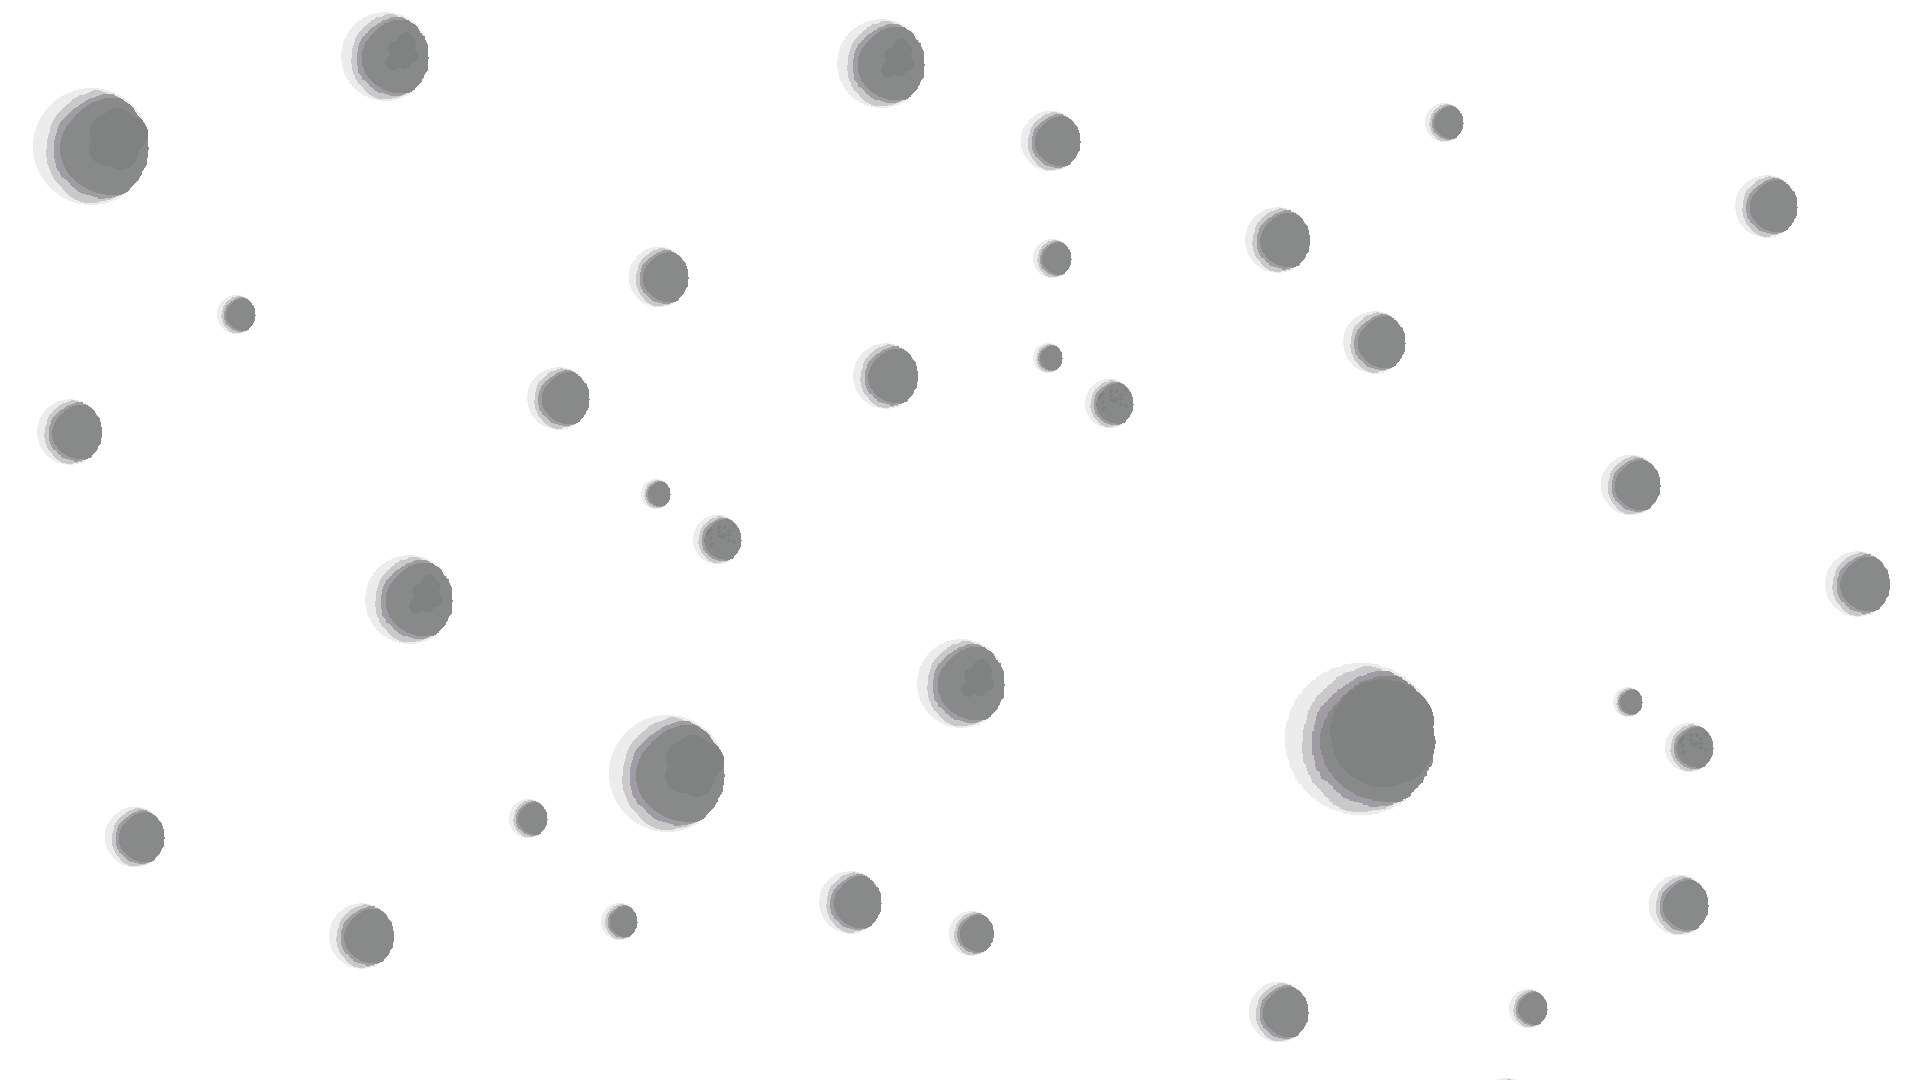
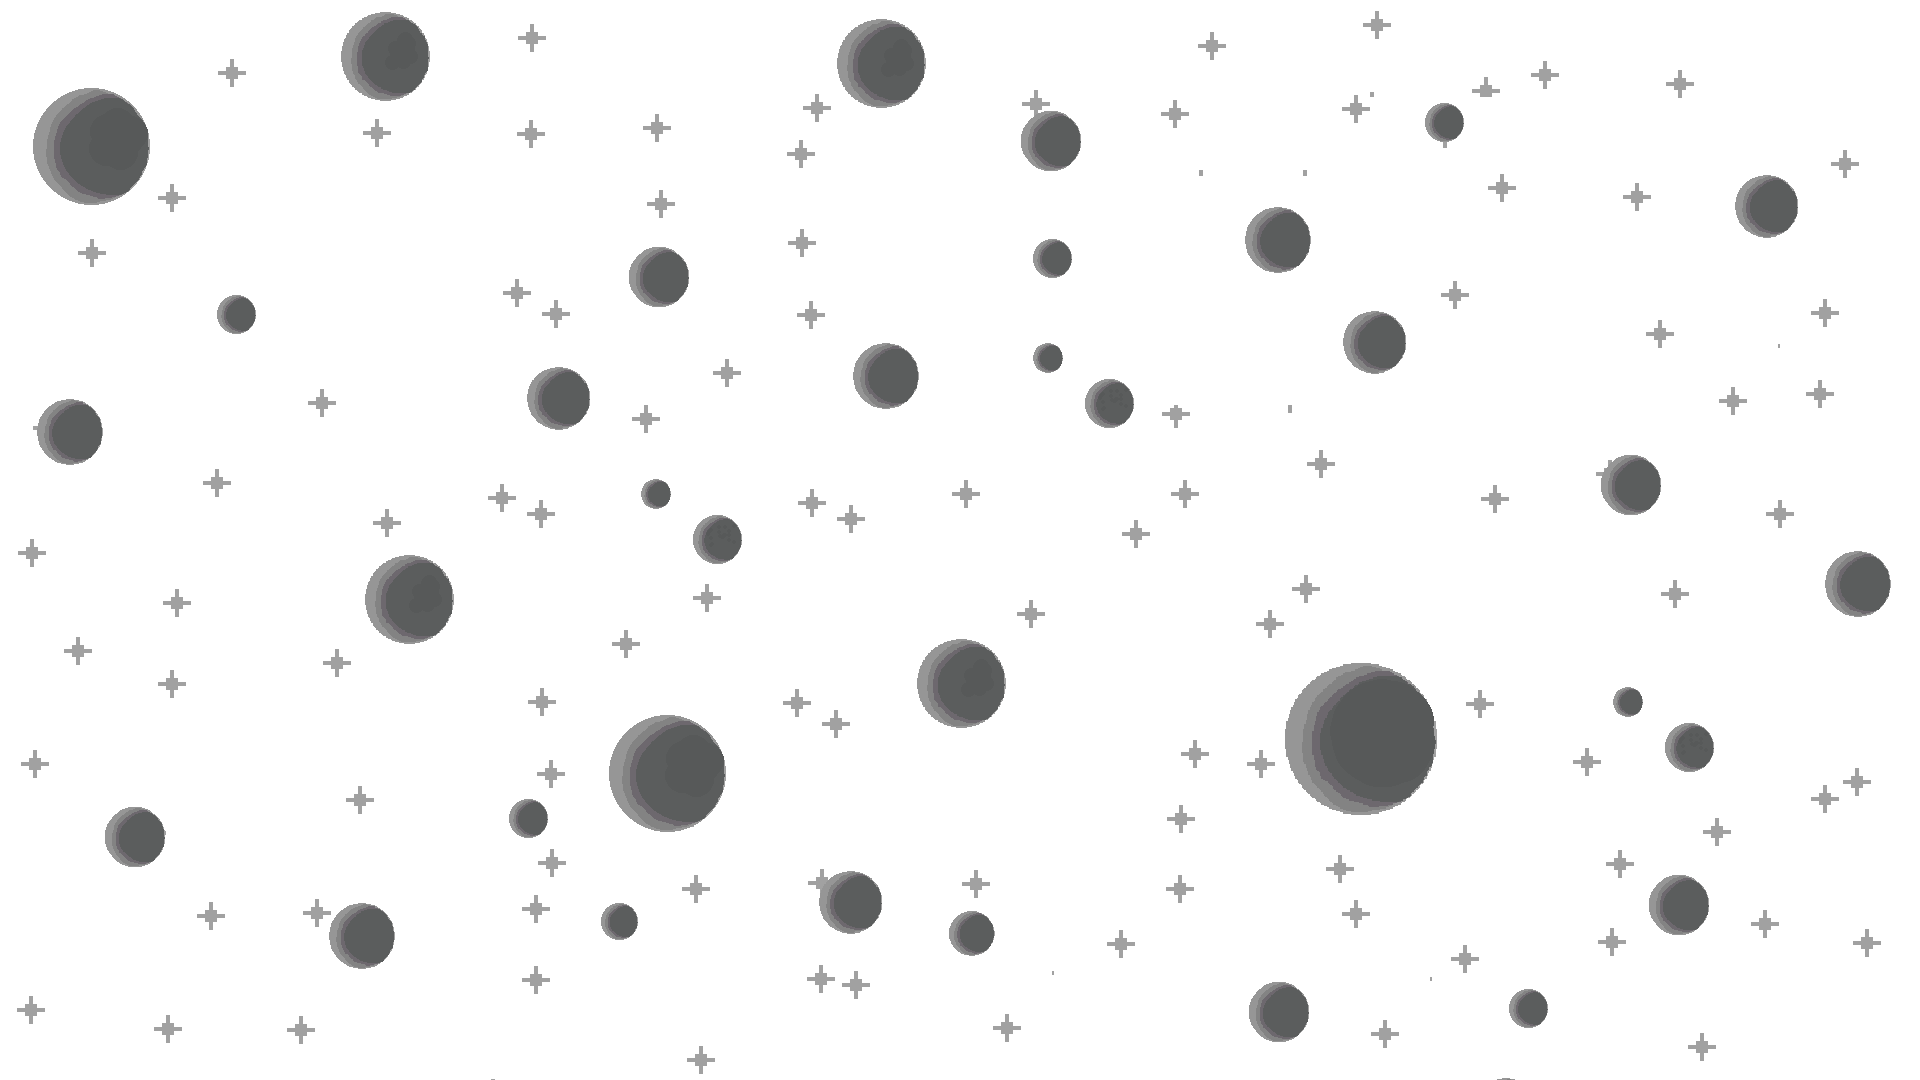
feat: Adicionando novas imagens e ReadMe melhorado do código

diff --git a/Pong/src/cena/Cena.java b/Pong/src/cena/Cena.java
@@ -44,11 +44,6 @@ public class Cena implements GLEventListener{
     public float verdeBarra = 1;
     public float azulBarra = 1;
 
-    // Variáveis para o Fundo
-    public float vermelhoFundo = 0.1f;
-    public float verdeFundo = 0.1f;
-    public float azulFundo = 0.1f;
-
     // Variáveis para a Borda
     public float vermelhoBorda = 1;
     public float verdeBorda = 1;
@@ -62,13 +57,13 @@ public class Cena implements GLEventListener{
 
     //Adicionando Variáveis para textura
 
-    public static final String texturaCoracao = "C:\\Users\\paulo\\Documents\\Projeto-A3\\Pong\\Pong\\src\\img_texturas\\coração.png";
+    public static final String texturaCoracao = "Pong/src/img_texturas/coração.png";
 
-    public static final String texturaEspaco = "C:\\Users\\paulo\\Documents\\Projeto-A3\\Pong\\Pong\\src\\img_texturas\\espaço2.png";
+    public static final String texturaEspaco = "Pong/src/img_texturas/espaço2.jpg";
 
-    public static final String texturaBarra = "C:\\Users\\paulo\\Documents\\Projeto-A3\\Pong\\Pong\\src\\img_texturas\\nave.png";
+    public static final String texturaBarra = "Pong/src/img_texturas/nave.png";
 
-    public static final String texturaPropulsor = "C:\\Users\\paulo\\Documents\\Projeto-A3\\Pong\\Pong\\src\\img_texturas\\propulsor.png";
+    public static final String texturaPropulsor = "Pong/src/img_texturas/propulsor.png";
 
     // Adicionando Variávies para o filtro da textura
     public int filtro = GL2.GL_LINEAR; ////GL_NEAREST ou GL_LINEAR
@@ -332,7 +327,6 @@ public class Cena implements GLEventListener{
                 gerarTexto(gl, 275, 250, Color.white ,"Aperte espaço para começar/pausar o jogo");
         } else if (jogoIniciado && vidas != 0) {//começar os desenhos
             bordas(gl,glut,vermelhoBorda,verdeBorda, azulBorda);
-            fundoJogo(gl,glut, vermelhoFundo, azulFundo, verdeFundo);
             corações(gl,glut);
             gerarTexto(gl, 800, 950, Color.white ,"Score");
             gerarTexto(gl, 800, 900, Color.white , String.valueOf(pontuacao));
@@ -362,10 +356,10 @@ public class Cena implements GLEventListener{
                 record = pontuacao;
             }
             menuGameOver = true;
-            gerarTexto(gl, 525, 500, Color.red ,"Game Over");
-            gerarTexto(gl, 425, 500, Color.red, "Sua pontuação foi de: " + pontuacao);
-            gerarTexto(gl, 325, 500, Color.red, "Seu Record foi de: " + record);
-            gerarTexto(gl, 250, 250, Color.white ,"Aperte  espaço  para  reiniciar !!");
+            gerarTexto(gl, 500, 500, Color.red ,"Game Over");
+            gerarTexto(gl, 500, 400, Color.red, "Sua pontuação foi de: " + pontuacao);
+            gerarTexto(gl, 500, 300, Color.red, "Seu Record foi de: " + record);
+            gerarTexto(gl, 500, 250, Color.white ,"Aperte  espaço  para  reiniciar !!");
         }
         gl.glFlush();
     }
@@ -394,7 +388,6 @@ public class Cena implements GLEventListener{
 
 
         textura.gerarTextura(gl, texturaEspaco, 5);
-        gl.glColor3f(vermelhoFundo, azulFundo, verdeFundo);
 
         gl.glBegin(GL2.GL_QUADS);
         gl.glTexCoord2f(movimentoFundo, movimentoFundo);
@@ -409,20 +402,6 @@ public class Cena implements GLEventListener{
 
         textura.desabilitarTextura(gl, 5);
     }
-        public void fundoJogo(GL2 gl,GLUT glut, float r, float g, float b){
-            gl.glPushMatrix();
-            gl.glTranslatef(0,0,-100);
-            gl.glColor3f(r, g, b);
-            gl.glLineWidth(1f);
-            gl.glBegin(gl.GL_QUADS);
-            gl.glVertex2f(-975,975);
-            gl.glVertex2f(975,975);
-            gl.glVertex2f(975,-975);
-            gl.glVertex2f(-975,-975);
-            gl.glVertex2f(-975,975);
-            gl.glEnd();
-            gl.glPopMatrix();
-        }
 
     public void bolinha(GL2 gl,GLUT glut, float r, float g, float b){
         gl.glPushMatrix();
@@ -456,9 +435,8 @@ public class Cena implements GLEventListener{
         gl.glEnd();
 
         textura.desabilitarTextura(gl, 6);
-        gl.glColor3f(vermelhoFundo,verdeFundo,azulFundo);
-
         textura.setAutomatica(false);
+        gl.glColor3f(0,0,0);
         textura.setFiltro(filtro);
         textura.setModo(modo);
         textura.setWrap(gl.GL_CLAMP_TO_BORDER);
@@ -495,7 +473,7 @@ public class Cena implements GLEventListener{
 
     public void corações(GL2 gl, GLUT glut){
         gl.glEnable(GL2.GL_DEPTH_TEST);
-
+        gl.glColor3f(0,0,0);
         if (vidas>=1) {
             // Textura para o primeiro coração:
 
@@ -509,7 +487,6 @@ public class Cena implements GLEventListener{
             //cria a textura indicando o local da imagem e o índice
 //            gl.glEnable(GL2.GL_TEXTURE_2D);
             textura.gerarTextura(gl, texturaCoracao, 0);
-            gl.glColor3f(vermelhoFundo, azulFundo, verdeFundo);
             // Criando a face para o Primeiro Coração
             gl.glBegin(GL2.GL_QUADS);
             //coordenadas da Textura            //coordenadas do quads
@@ -543,7 +520,6 @@ public class Cena implements GLEventListener{
 
             //cria a textura indicando o local da imagem e o índice
             textura.gerarTextura(gl, texturaCoracao, 1);
-            gl.glColor3f(vermelhoFundo, azulFundo, verdeFundo);
             // Criando a face para o segundo Coração
             gl.glBegin(GL2.GL_QUADS);
             //coordenadas da Textura            //coordenadas do quads
@@ -577,7 +553,6 @@ public class Cena implements GLEventListener{
 
             //cria a textura indicando o local da imagem e o índice
             textura.gerarTextura(gl, texturaCoracao, 2);
-            gl.glColor3f(vermelhoFundo, azulFundo, verdeFundo);
             gl.glBegin(GL2.GL_QUADS);
             //coordenadas da Textura            //coordenadas do quads
             gl.glTexCoord2f(1f, 1f);
@@ -614,7 +589,6 @@ public class Cena implements GLEventListener{
 
             //cria a textura indicando o local da imagem e o índice
             textura.gerarTextura(gl, texturaCoracao, 3);
-            gl.glColor3f(vermelhoFundo, azulFundo, verdeFundo);
             // Criando a face para o quarto Coração
             gl.glBegin(GL2.GL_QUADS);
             //coordenadas da Textura            //coordenadas do quads
@@ -647,7 +621,6 @@ public class Cena implements GLEventListener{
 
             //cria a textura indicando o local da imagem e o índice
             textura.gerarTextura(gl, texturaCoracao, 4);
-            gl.glColor3f(vermelhoFundo, azulFundo, verdeFundo);
             // Criando a face para o quinto Coração
             gl.glBegin(GL2.GL_QUADS);
             //coordenadas da Textura            //coordenadas do quads

diff --git a/Pong/src/cena/KeyBoard.java b/Pong/src/cena/KeyBoard.java
@@ -58,14 +58,6 @@ public class KeyBoard implements KeyListener{
                         cena.vermelhoBolinha = 1f;
                         cena.verdeBolinha = 1f;
                         cena.azulBolinha = 1f;
-                        // Cor do Fundo:
-                        cena.vermelhoFundo = 0.1f;
-                        cena.verdeFundo = 0.1f;
-                        cena.azulFundo = 0.1f;
-                        // Cor do Barra:
-                        cena.vermelhoBarra = 0.3f;
-                        cena.verdeBarra = 0.3f;
-                        cena.azulBarra = 0.3f;
                         // Cor da Borda:
                         cena.vermelhoBorda = 0.5f;
                         cena.verdeBorda = 0.5f;
@@ -76,14 +68,6 @@ public class KeyBoard implements KeyListener{
                         cena.vermelhoBolinha = 0.17f;
                         cena.verdeBolinha = 0.79f;
                         cena.azulBolinha = 1f;
-                        // Cor do Fundo:
-                        cena.vermelhoFundo = 0.20f;
-                        cena.verdeFundo = 0.80f;
-                        cena.azulFundo = 1f;
-                        // Cor do Barra:
-                        cena.vermelhoBarra = 0.30f;
-                        cena.verdeBarra = 0.60f;
-                        cena.azulBarra = 1f;
                         // Cor da Borda:
                         cena.vermelhoBorda = 0.40f;
                         cena.verdeBorda = 0.60f;
@@ -94,14 +78,6 @@ public class KeyBoard implements KeyListener{
                         cena.vermelhoBolinha = 0.49f;
                         cena.verdeBolinha = 1f;
                         cena.azulBolinha= 0.96f;
-                        // Cor do Fundo:
-                        cena.vermelhoFundo = 0.60f;
-                        cena.verdeFundo = 1f;
-                        cena.azulFundo = 0.90f;
-                        // Cor do Barra:
-                        cena.vermelhoBarra = 0.30f;
-                        cena.verdeBarra = 1f;
-                        cena.azulBarra = 0.86f;
                         // Cor da Borda:
                         cena.vermelhoBorda = 0.50f;
                         cena.verdeBorda = 1f;
@@ -112,14 +88,6 @@ public class KeyBoard implements KeyListener{
                         cena.vermelhoBolinha = 1f;
                         cena.verdeBolinha = 0.41f;
                         cena.azulBolinha = 0.41f;
-                        // Cor do Fundo:
-                        cena.vermelhoFundo = 1f;
-                        cena.verdeFundo = 0.50f;
-                        cena.azulFundo = 0.50f;
-                        // Cor do Barra:
-                        cena.vermelhoBarra = 1f;
-                        cena.verdeBarra = 0.60f;
-                        cena.azulBarra = 0.60f;
                         // Cor da Borda:
                         cena.vermelhoBorda = 1f;
                         cena.verdeBorda = 0.70f;

diff --git a/Pong/readme.md b/Pong/readme.md
@@ -1,0 +1,32 @@
+# JOGO - PONG - Trabalho A3 - Computação Gráfica e Realidade Virtual
+## Entrega do Trabalho: 03/12
+
+---
+### Alunos Participantes:
+- Arthur Korkiskis Felismino, RA: 125111351312;
+- Gustavo Carreiro, RA: 125111352297;
+- Paulo Gustavo Sousa Brito, RA: 125111378562;
+
+---
+
+### Propósito do Jogo:
+- O jogo PONG, é um simulador onde deverá ser construído um jogo pong, onde a bolinha deve estar em movimento contínuo, com fases e pontuação. 
+- O jogo foi tematizado como um ambiente espacial, onde a sua nave deve rebater a bolinha e assim pontuar.
+
+### Como o jogo funciona:
+- Durante a gameplay, o jogo terá dificuldades a serem passadas conforme a duração da gameplay.
+- A __quantidade de fases é apenas 6 fases.__
+- O jogo terá __obstáculo e aumento da velocidade da bolinha.__
+
+### Regras do Jogo:
+- Cada rebatida o jogador recebe 50 pontos;
+- A cada 200 pontos, uma fase é adicionada, com limite em 6 fases;
+- A partir da 2 fase, aparecerá um obstáculo no centro da tela;
+- A velocidade da bolinha e o aumento do obstáculo ocorrem a cada fase.
+
+### Atalhos do Teclado:
+- Setas da direita e esquerda para movimentação da nave;
+- _c_ muda a cor da bolinha e da borda;
+- _espaço_ para navegação de menu play/pause;
+- _m_ para voltar ao menu principal (no menu de pause do jogo);
+- _esc_ para encerrar o jogo.
